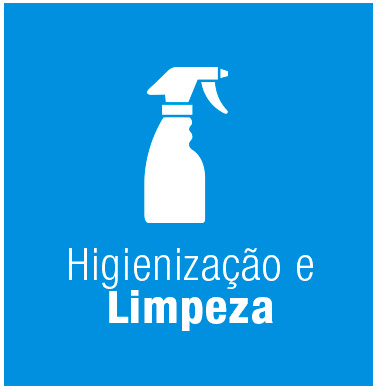
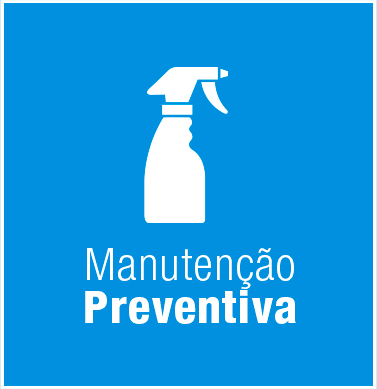
ajustes

Changed region(s): [[0.1751, 0.617, 0.8462, 0.8638], [0.992, 0.0, 1.0, 1.0]]

diff --git a/page-calculadora-btus.php b/page-calculadora-btus.php
@@ -72,6 +72,12 @@ get_header(); ?>
 				<div class="col-md-12">
 					<a href="<?php echo esc_url( home_url( '/' ) )."contato"; ?>" class="btn-confira btn-azul">Fale com um Especialista</a>
 				</div>
+			</div><br><br>
+			<div class="row">
+				<div class="col-md-12">
+					Obs.: As informações acima podem variar dependendo de diversos fatores, como sol, eletrônicos, pessoas entre outros. 
+					Para um cálculo ideial de ar condicionado, solicite uma visita técnica de um profissional da Fristar.					
+				</div>
 			</div>
 		</div>		
 	</section>

diff --git a/page-manutencao-preventiva.php b/page-manutencao-preventiva.php
@@ -8,7 +8,7 @@ get_header(); ?>
 				<div class="col-md-12">
 					<h1 class="small azul"><div class="animated bounceIn">Manutenção Preventiva</div></h1>
 					<h3 class="azul">Limpeza e Higienização</h3><br>
-					<img class="e-claro img-responsive" src="<?php echo dirname( get_bloginfo('stylesheet_url'))."/images/manutencao-corretiva.jpg"; ?>"/>
+					<img class="e-claro img-responsive" src="<?php echo dirname( get_bloginfo('stylesheet_url'))."/images/manutencao-preventiva.jpg"; ?>"/>
 				</div>
 			</div><br><br>
 			<div class="row">

diff --git a/page-servico-de-instalacao.php b/page-servico-de-instalacao.php
@@ -8,7 +8,7 @@ get_header(); ?>
 				<div class="col-md-12">
 					<h1 class="small azul"><div class="animated bounceIn">Serviço de Instalação</div></h1>
 					<h3 class="azul">de Ar-Condicionado</h3><br>
-					<img class="e-claro img-responsive" src="<?php echo dirname( get_bloginfo('stylesheet_url'))."/images/manutencao-corretiva.jpg"; ?>"/>
+					<img class="e-claro img-responsive" src="<?php echo dirname( get_bloginfo('stylesheet_url'))."/images/servico-instalacao.jpg"; ?>"/>
 				</div>
 			</div><br><br>
 			<div class="row">

diff --git a/page-contato.php b/page-contato.php
@@ -21,7 +21,7 @@ get_header(); ?>
 					<p>
 						<strong>Telefone.: </strong>11 2561-5068 | 11 98359-1900 
 						<strong>WhatsApp.: </strong>11 94944-3706
-						<strong>Email.: </strong>assistencia@fristar.com						
+						<strong>Email.: </strong>assistencia@fristar.com.br						
 					</p>
 
 					</div>

diff --git a/index.php b/index.php
@@ -91,7 +91,7 @@ get_header(); ?>
 					<p>
 						<strong>Telefone.: </strong>11 2561-5068 | 11 98359-1900 
 						<strong>WhatsApp.: </strong>11 94944-3706
-						<strong>Email.: </strong>assistencia@fristar.com
+						<strong>Email.: </strong>assistencia@fristar.com.br
 					</p>
 				</div>
 			</div>
